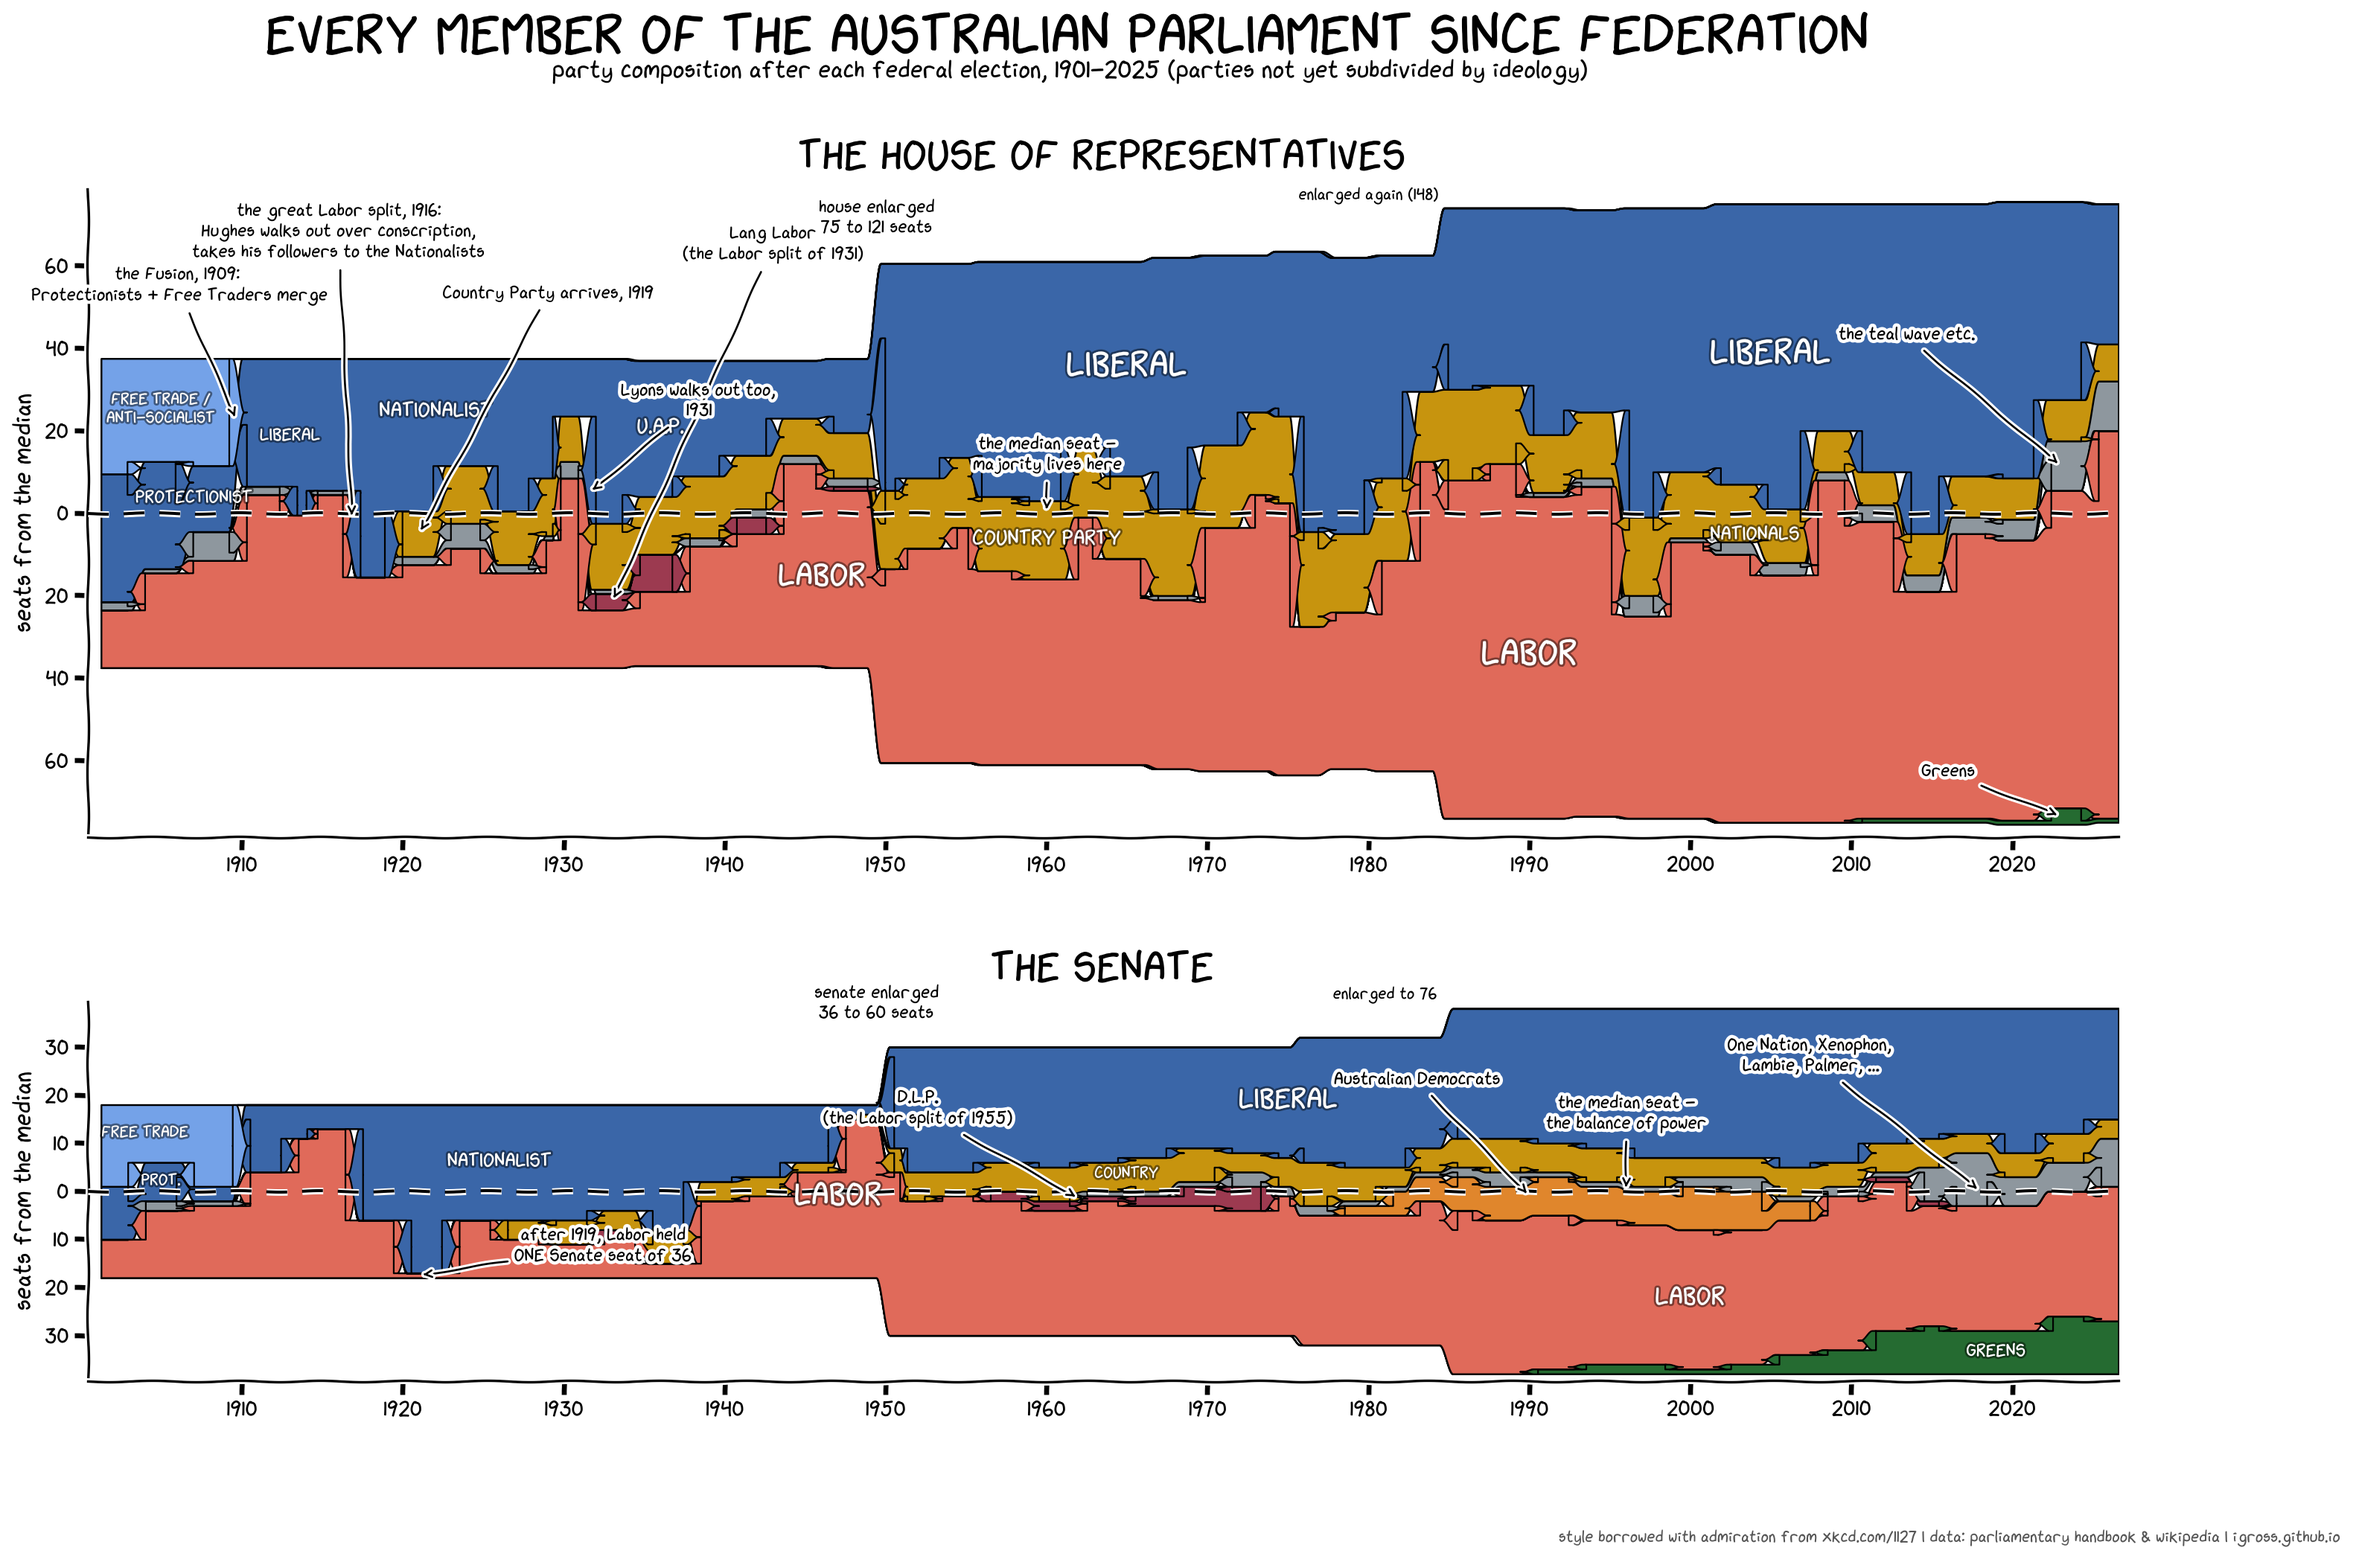
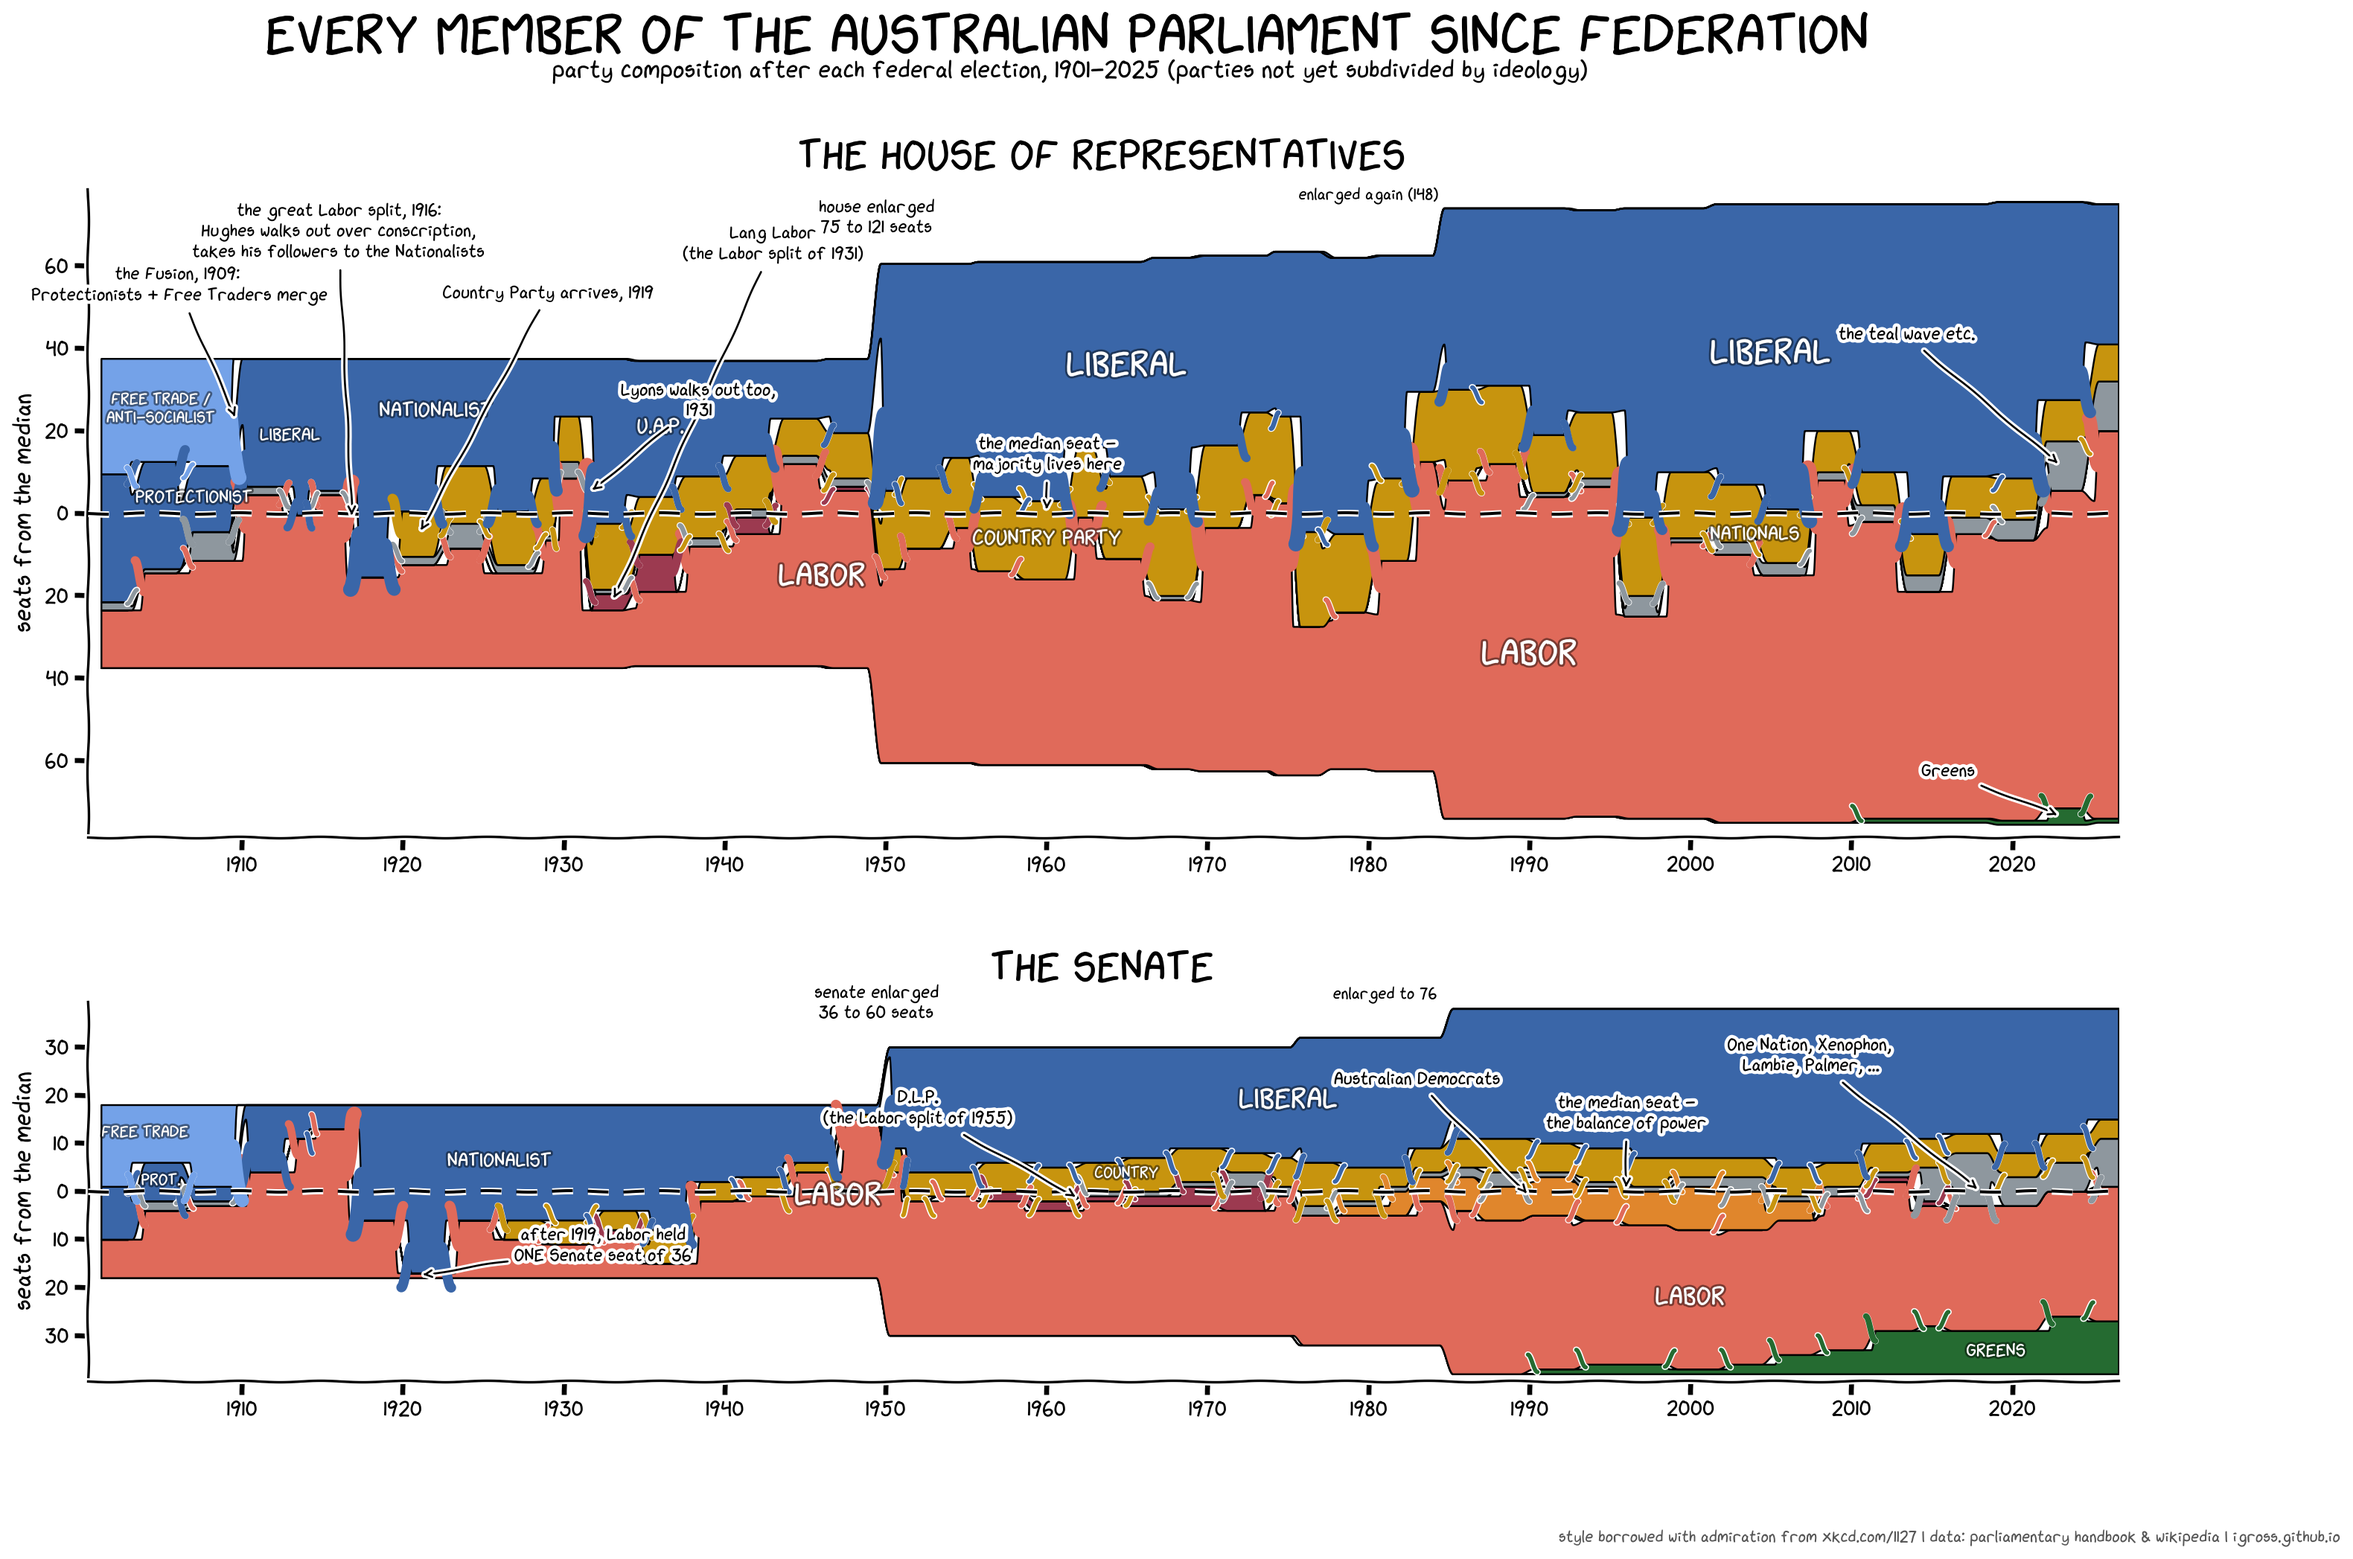
Draw seat flows as thick solid coloured strokes
Replace the outlined tapering wedges with solid lines in the band's
colour: line weight scales with the seats moving (capped so strokes stay
line-like), leavers curl off the median-facing edge and die away,
arrivals sweep in and plug into the band. The xkcd white halo keeps the
strokes legible over the underlying bands.

Claude-Session: https://claude.ai/code/session_011XPQWBrUcowLAmpWzwwUu6

diff --git a/scripts/plot_parliament_xkcd.py b/scripts/plot_parliament_xkcd.py
@@ -229,25 +229,33 @@ def draw_chamber(ax, wide, title):
                 bo.append(a[0] + (c[0] - a[0]) * f)
                 to.append(a[1] + (c[1] - a[1]) * f)
             if A > B:
-                wedges.append((w0, ramp, sliceA, colour, "out"))
+                wedges.append((w0, ramp, sliceA, colour, "out",
+                               1 if faces_up(bA, tA) else -1))
             elif B > A:
-                wedges.append((w0, ramp, sliceB, colour, "in"))
+                wedges.append((w0, ramp, sliceB, colour, "in",
+                               1 if faces_up(bB, tB) else -1))
         ax.fill_between(xs, bo, to, facecolor=colour,
                         edgecolor="black", linewidth=1.1, zorder=2)
 
-    for x0, ramp, (lo, hi), colour, kind in wedges:
+    # Flows are thick solid strokes of the band's colour, one per change:
+    # line weight grows with the number of seats moving, but stays a line.
+    # Leavers emerge from the median-facing edge and curl toward the median
+    # as the stroke dies; arrivals sweep in from the same side and plug
+    # into the band.
+    for x0, ramp, (lo, hi), colour, kind, sgn in wedges:
         mid, d = (lo + hi) / 2.0, hi - lo
-        ts, w = [], []
-        for j in range(41):
-            u = j / 40.0
-            ts.append(x0 + ramp * u)
-            if kind == "out":  # full width, then the stream dries up
-                w.append(d * (1 - smoothstep(min(1.0, max(0.0, (u - 0.2) / 0.65)))))
-            else:              # the stream swells, then runs in alongside
-                w.append(d * smoothstep(min(1.0, max(0.0, (u - 0.15) / 0.65))))
-        ax.fill_between(ts, [mid - v / 2 for v in w], [mid + v / 2 for v in w],
-                        facecolor=colour, edgecolor="black", linewidth=1.0,
-                        zorder=3)
+        lw = min(9.0, 2.2 + 0.35 * d)
+        drift = sgn * (d / 2.0 + 3.0)
+        px, py = [], []
+        for j in range(21):
+            u = j / 20.0
+            if kind == "out":
+                px.append(x0 + 0.55 * ramp * u)
+                py.append(mid + drift * smoothstep(u))
+            else:
+                px.append(x0 + ramp * (0.45 + 0.55 * u))
+                py.append(mid + drift * (1 - smoothstep(u)))
+        ax.plot(px, py, color=colour, lw=lw, solid_capstyle="round", zorder=3)
 
     ax.axhline(0, color="black", lw=1.8, ls=(0, (7, 5)), zorder=4)
     ax.set_title(title, fontsize=26, pad=12)
